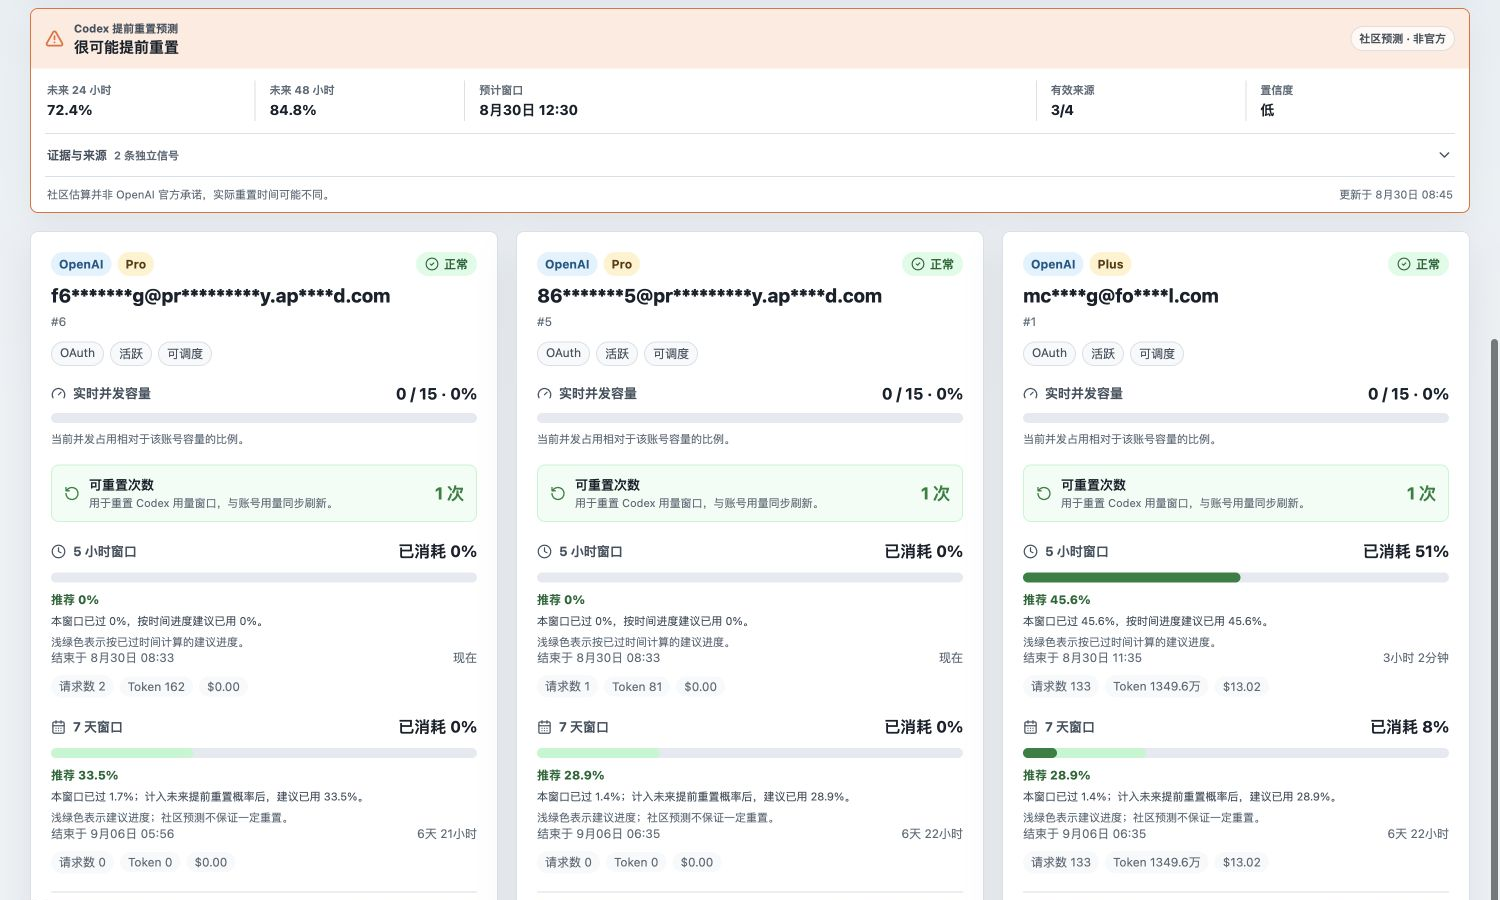
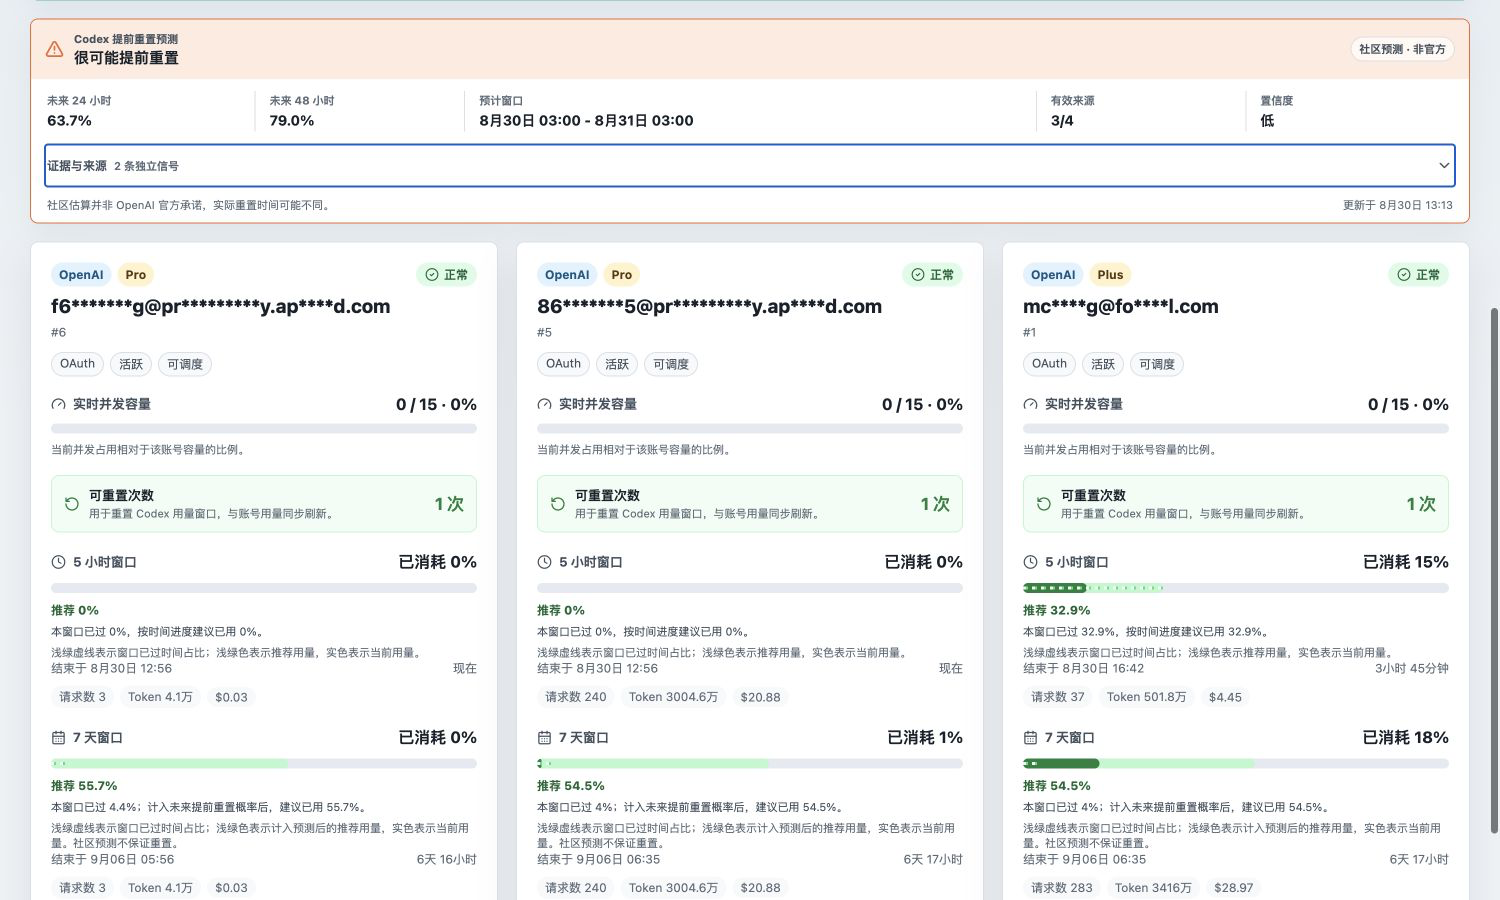
docs: refresh desktop and mobile previews

diff --git a/README.md b/README.md
@@ -6,13 +6,20 @@ Public read-only Next.js panel for selected sub2api upstream account usage windo
 
 ## Preview
 
+### Desktop
+
 ![sub2api upstream status dashboard preview](docs/images/dashboard-preview.png)
+
+### Mobile
+
+![sub2api upstream status mobile dashboard preview](docs/images/dashboard-preview-mobile.png)
 
 ## Features
 
 - Read-only public dashboard for selected upstream accounts
 - 5 hours and 7 days usage windows with reset time and countdown
 - Time-progress recommendations, continuously adjusted by cross-checked early-reset probabilities
+- A single usage track overlays current usage (solid), recommended usage (pale green), and elapsed window share (green dashes)
 - Runtime filtering of visible 5-hour and 7-day usage windows
 - 5 hours and 7 days request counts and token usage, both per account and in dashboard summary
 - OpenAI subscription plan badges next to each account platform
@@ -61,6 +68,8 @@ The server cross-checks public JSON feeds from [Codex Runway](https://www.codexr
 Forecast requests are made only by this panel server. No sub2api URL, admin key, account name, or account usage is sent to a forecast provider. These are unofficial community estimates and are not an OpenAI commitment.
 
 The base recommendation is simply the elapsed share of the current window: `elapsed time / full window duration`. A valid forecast raises that target using the expected value of the 24-hour and 48-hour early-reset probabilities. An unscoped global forecast affects only the 7-day window; the 5-hour window requires an explicit 5-hour signal. Plan-scoped signals are applied only to matching account plans. Stale, inconsistent, late, or mismatched forecasts leave the time-based recommendation unchanged.
+
+Each usage window keeps all three readings on one track: solid color shows current usage, pale green shows the recommendation, and short green dashes mark the elapsed share of the window. The current-usage layer remains green, amber, or red according to consumption level and covers the layers beneath it where they overlap.
 
 ## Local Development
 

diff --git a/README.zh-CN.md b/README.zh-CN.md
@@ -6,13 +6,20 @@
 
 ## 展示图
 
+### 桌面端
+
 ![sub2api 上游状态面板展示图](docs/images/dashboard-preview.png)
+
+### 移动端
+
+![sub2api 上游状态面板移动端展示图](docs/images/dashboard-preview-mobile.png)
 
 ## 功能
 
 - 公开只读面板，无需登录即可查看选定上游账号状态
 - 展示 `5 小时` 与 `7 天` 用量窗口、窗口结束时间和倒计时
 - 按窗口已过时间给出建议进度，并使用交叉验证后的提前重置概率连续调整
+- 在同一条用量进度条内叠加显示当前用量（实色）、推荐用量（浅绿色）和窗口已过占比（绿色虚线）
 - 展示 `5 小时` 与 `7 天` 两个窗口内的请求数和 Token 消耗，包含账号级和顶部汇总
 - 在账号平台右侧显示 OpenAI 套餐类型
 - 每个账号的实时并发容量同步
@@ -61,6 +68,8 @@ admin key 只在 Next.js 服务端路由中读取，不会返回给浏览器。
 预测请求只由本面板服务端发起，不会向预测网站发送 sub2api 地址、admin key、账号名或账号用量。预测属于非官方社区估算，不代表 OpenAI 的承诺。
 
 基础建议采用简单的“已过时间 / 完整窗口时长”。存在可靠预测时，再按未来 24 小时和 48 小时提前重置概率的期望值提高建议进度。未注明窗口的全局预测只影响 7 天窗口；5 小时窗口必须有明确的 5 小时信号。限制套餐的信号只作用于匹配套餐。预测过期、数据冲突、时间晚于正常重置或套餐不匹配时，建议值保持为基础时间进度。
+
+每个用量窗口只使用一条进度条：实色表示当前用量，浅绿色表示推荐用量，短绿色虚线表示窗口已过时间占比。当前用量会根据消耗程度显示为绿、橙或红色，并在重叠区域覆盖下方两层。
 
 ## 本地开发
 
